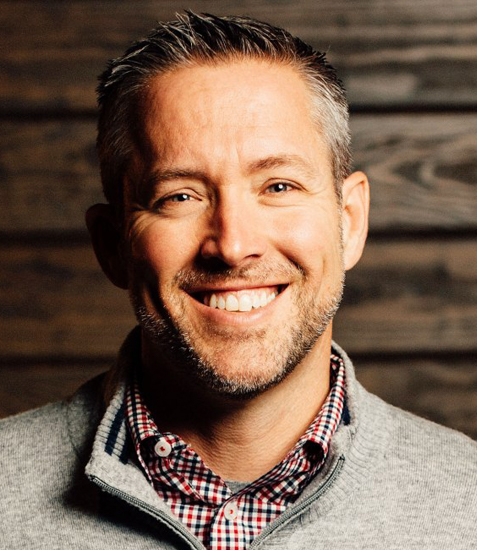
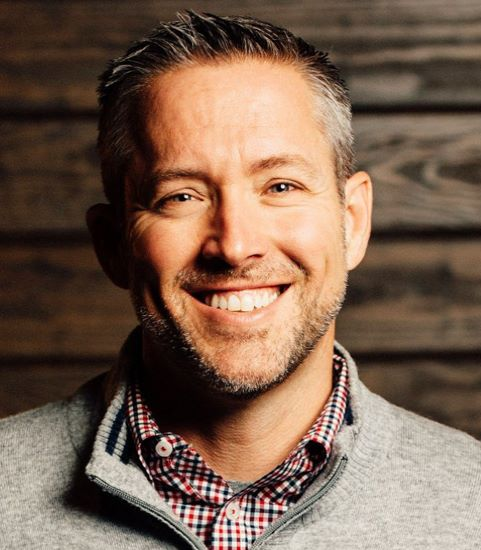
version 1.05
Speakers Section layout completed.

diff --git a/index.html b/index.html
@@ -95,24 +95,24 @@
         <!-- End About Section -->
 
         <!-- Speakers Section -->
-        <div class="speakers-container" id="speakrs">
-          <div class="speaker-1">
-            <img src="/images/speakers/greear" class="speaker-imgs" id="greear" />
+        <div class="speakers-container" id="speakers">
+          <div class="image-box">
+            <img src="images/speakers/greear.jpg" class="speaker-imgs" id="greear" />
           </div>
-          <div class="speaker-2">
-            <img src="/images/speakers/loritts" class="speaker-imgs" id="loritts" />
+          <div class="image-box">
+            <img src="images/speakers/loritts.jpg" class="speaker-imgs" id="loritts" />
           </div>
-          <div class="speaker-3">
-            <img src="/images/speakers/merida" class="speaker-imgs" id="merida" />
+          <div class="image-box">
+            <img src="images/speakers/merida.jpg" class="speaker-imgs" id="merida" />
           </div>
-          <div class="speaker-4">
-            <img src="/images/speakers/allen" class="speaker-imgs" id="allen" />
+          <div class="image-box">
+            <img src="images/speakers/allen.jpg" class="speaker-imgs" id="allen" />
           </div>
-          <div class="speaker-5">
-            <img src="/images/speakers/strachan" class="speaker-imgs" id="strachan" />
+          <div class="image-box">
+            <img src="images/speakers/strachan.jpg" class="speaker-imgs" id="strachan" />
           </div>
-          <div class="speaker-6">
-            <img src="/images/speakers/wilson" class="speaker-imgs" id="wilson" />
+          <div class="image-box">
+            <img src="images/speakers/wilson.jpg" class="speaker-imgs" id="wilson" />
           </div>
         </div>
         <!-- End Speakers Section -->

diff --git a/assets/css/stylesheet.css b/assets/css/stylesheet.css
@@ -134,13 +134,20 @@ body {
 .hero-right li:last-child img {
     max-width: 25px;
 }
+.image-box {
+  display: inline-block;
+  margin: -3px;
+  max-width: 16.77vw;
+}
+.speaker-imgs {
+  max-width: 100%;
+}
 
 /* --- --- --- 2.2 Spacers --- --- ---*/
 
 /* --- --- --- 2.3 Containers --- --- ---*/
 
 .wrapper {
-    position: relative;
     width: 100vw;
     padding: 0;
 }
